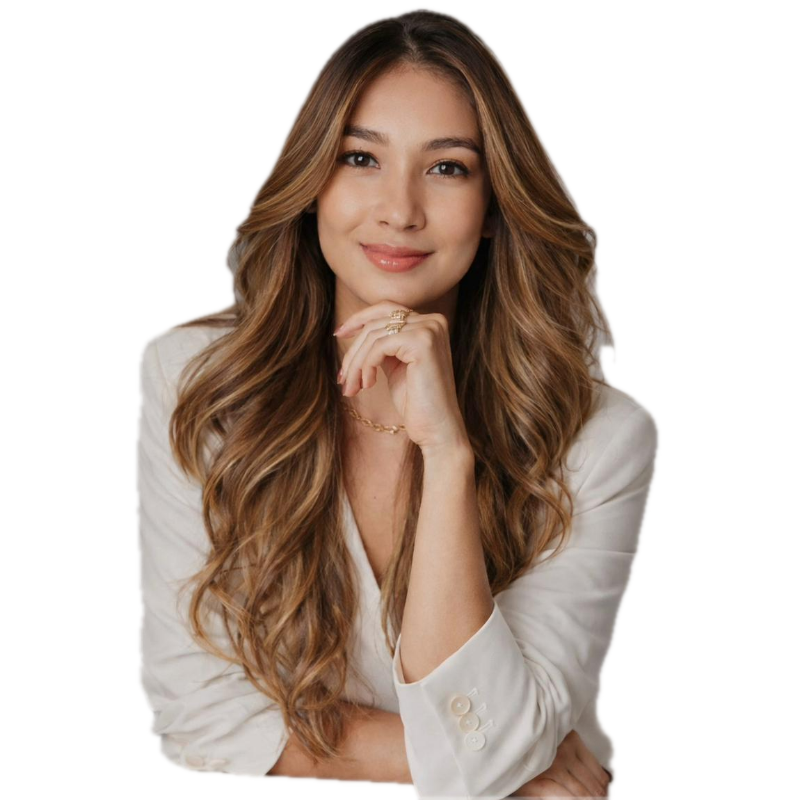
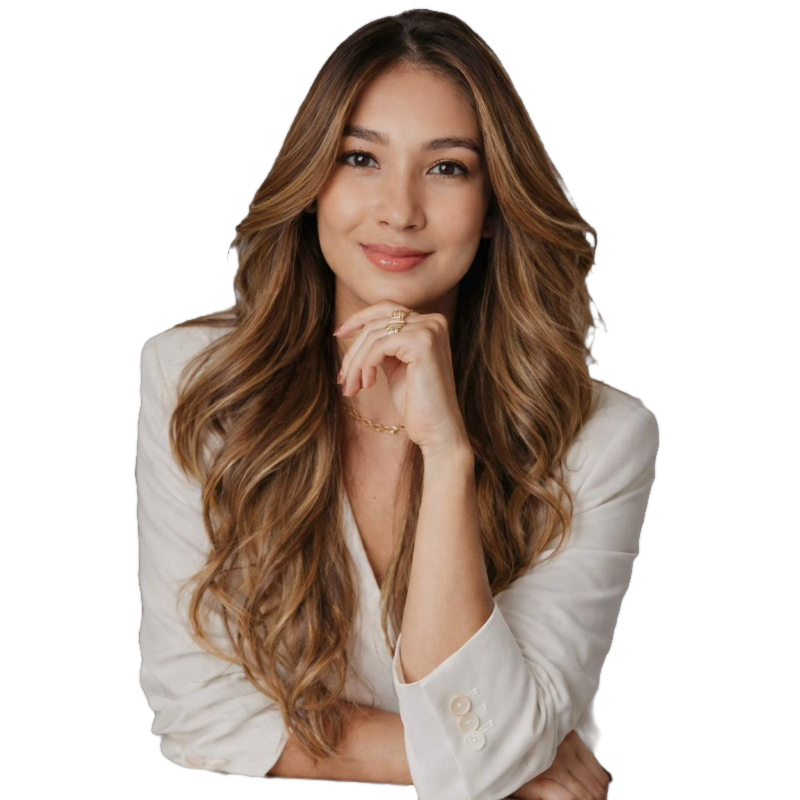
Recorte refeito com segmentacao de pessoa e retrato imersivo em arco na secao Sobre

diff --git a/styles.css b/styles.css
@@ -147,7 +147,7 @@ button { font: inherit; }
   position: absolute; z-index: 2; left: 50%; bottom: 0; width: min(88vh, 860px); aspect-ratio: 1;
   transform: translateX(-50%); will-change: transform; pointer-events: none;
 }
-.hero__figure img { width: 100%; height: 100%; object-fit: contain; object-position: 50% 100%; filter: drop-shadow(0 30px 60px rgba(0,0,0,.35)); }
+.hero__figure img { width: 100%; height: 100%; object-fit: contain; object-position: 50% 100%; filter: drop-shadow(0 30px 60px rgba(0,0,0,.35)); -webkit-mask-image: linear-gradient(0deg, transparent 0, #000 14%); mask-image: linear-gradient(0deg, transparent 0, #000 14%); }
 .hero__stage::after { content: ""; position: absolute; inset: auto 0 0; height: 34%; z-index: 3; pointer-events: none; background: linear-gradient(0deg, rgba(43,36,38,.92), rgba(43,36,38,0)); }
 .hero__tag { position: absolute; z-index: 4; left: var(--pad); bottom: 9vh; max-width: min(36vw, 520px); display: block; }
 .hero__tag .eyebrow { margin-bottom: 18px; }
@@ -287,12 +287,34 @@ button { font: inherit; }
 /* ============ sobre ============ */
 .about { padding: clamp(110px, 12vw, 170px) 0 0; background: var(--paper); overflow: hidden; }
 .about__grid { display: grid; grid-template-columns: 5fr 6fr; gap: clamp(40px, 7vw, 110px); align-items: center; }
-.about__photo { position: relative; margin: 0; max-width: 460px; }
-.about__img { overflow: hidden; border-radius: 2px; clip-path: inset(100% 0 0 0); transition: clip-path 1.6s var(--ease); }
-.about__photo.is-in .about__img { clip-path: inset(0 0 0 0); }
-.about__img img { width: 100%; transform: scale(1.15); }
-.about__photo::after { content: ""; position: absolute; inset: 18px -18px 52px 18px; border: 1px solid var(--gold); z-index: -1; }
-.about__photo figcaption { margin-top: 26px; font: italic 400 17px/1.3 var(--serif); color: var(--muted); }
+.about__photo { position: relative; margin: 0; max-width: 480px; width: 100%; justify-self: center; }
+.portrait { perspective: 1100px; }
+.portrait__tilt { position: relative; aspect-ratio: 1 / 1.12; transform-style: preserve-3d; will-change: transform; }
+.portrait__arch {
+  position: absolute; inset: 22% 6% 0; border-radius: 999px 999px 6px 6px; overflow: hidden;
+  background: radial-gradient(120% 90% at 50% 20%, #a7808a, var(--mauve) 45%, #4a3238);
+  box-shadow: 0 50px 90px -40px rgba(43,36,38,.7); transform-origin: 50% 100%;
+  transform: scaleY(0); transition: transform 1.4s var(--ease);
+}
+.portrait__arch i { position: absolute; left: 50%; top: 30%; border: 1px solid rgba(247,242,236,.22); border-radius: 50%; transform: translate(-50%, -50%); animation: breathe 7s ease-in-out infinite; }
+.portrait__arch i:first-child { width: 70%; aspect-ratio: 1; }
+.portrait__arch i:last-child { width: 115%; aspect-ratio: 1; animation-delay: -3.5s; }
+.portrait__fig {
+  position: absolute; left: 50%; bottom: 0; width: 104%; max-width: none; height: auto;
+  transform: translate(-50%, 18%) translateZ(60px); opacity: 0;
+  transition: transform 1.6s var(--ease) .35s, opacity 1.2s var(--ease) .35s;
+  filter: drop-shadow(0 30px 40px rgba(43,36,38,.35));
+  -webkit-mask-image: linear-gradient(0deg, transparent 0, #000 4%); mask-image: linear-gradient(0deg, transparent 0, #000 4%);
+}
+.about__photo.is-in .portrait__arch { transform: scaleY(1); }
+.about__photo.is-in .portrait__fig { transform: translate(-50%, 0) translateZ(60px); opacity: 1; }
+.portrait__badge { position: absolute; right: -4%; top: 30%; width: 120px; height: 120px; transform: translateZ(90px); animation: spin 22s linear infinite; }
+.portrait__badge text { font: 600 9.2px var(--sans); letter-spacing: .2em; text-transform: uppercase; fill: var(--ink); }
+.portrait__badge circle { fill: var(--paper); }
+.portrait__badge-e { font: italic 500 30px var(--serif) !important; letter-spacing: 0 !important; fill: var(--mauve) !important; }
+.portrait__badge::before { content: none; }
+.portrait__badge { background: var(--paper); border-radius: 50%; box-shadow: 0 16px 40px -16px rgba(43,36,38,.5); }
+.about__photo figcaption { margin-top: 26px; text-align: center; font: italic 400 18px/1.3 var(--serif); color: var(--muted); }
 .about__name { margin: 0; font: 500 clamp(56px, 8vw, 120px)/.9 var(--serif); letter-spacing: -.03em; }
 .about__name em { color: var(--mauve); }
 .about__lead { margin: 30px 0 18px; font: 500 clamp(22px, 2.2vw, 28px)/1.3 var(--serif); }
@@ -426,7 +448,8 @@ button { font: inherit; }
   .hero, .manifesto { height: auto; margin: 0; }
   .hero__stage, .manifesto__stage { position: relative; }
   .hero__hint { opacity: 1; }
-  .about__img { clip-path: none; }
+  .portrait__arch { transform: none; }
+  .portrait__fig { opacity: 1; transform: translate(-50%, 0); }
   .manifesto__text .w { color: var(--ink); }
   .quote [data-scrub] .w { color: var(--ivory); }
   .manifesto__orb { opacity: 1; transform: translateY(-50%); }

diff --git a/index.html b/index.html
@@ -280,9 +280,17 @@
   <!-- ============ SOBRE ============ -->
   <section class="about" id="sobre">
     <div class="wrap about__grid">
-      <figure class="about__photo" data-clip>
-        <div class="about__img"><img src="img/ig-DcI_Rf-Fk8V.jpg" width="640" height="800" loading="lazy" alt="Eduarda Cristina em seu consultório, em post sobre como monta o plano de tratamento" data-par-y></div>
-        <figcaption>Como eu monto o seu plano de tratamento</figcaption>
+      <figure class="about__photo portrait" data-clip data-portrait>
+        <div class="portrait__tilt" data-tilt>
+          <div class="portrait__arch" data-arch><i></i><i></i></div>
+          <img class="portrait__fig" src="img/eduarda-cut.png" width="800" height="800" loading="lazy" alt="Eduarda Cristina, fisioterapeuta, de blazer branco, sorrindo" data-fig>
+          <svg class="portrait__badge" viewBox="0 0 120 120" aria-hidden="true">
+            <defs><path id="ring" d="M60 60 m-46 0 a46 46 0 1 1 92 0 a46 46 0 1 1 -92 0"/></defs>
+            <text><textPath href="#ring">Fisioterapia domiciliar · Belém-PA · CREFITO 12 · </textPath></text>
+            <text x="60" y="70" text-anchor="middle" class="portrait__badge-e">E</text>
+          </svg>
+        </div>
+        <figcaption>Entender a pessoa antes de prescrever o movimento.</figcaption>
       </figure>
       <div class="about__copy">
         <p class="eyebrow">06 — Quem cuida</p>

diff --git a/main.js b/main.js
@@ -357,8 +357,21 @@
   });
 
   /* ---------- SOBRE: parallax da foto ---------- */
-  gsap.fromTo('[data-par-y]', { yPercent: -7 }, { yPercent: 7, ease: 'none',
-    scrollTrigger: { trigger: '.about__photo', start: 'top bottom', end: 'bottom top', scrub: true } });
+  // camadas em velocidades diferentes: arco mais lento, figura e selo mais rápidos
+  gsap.fromTo('[data-arch] i', { yPercent: -40 }, { yPercent: 30, ease: 'none',
+    scrollTrigger: { trigger: '[data-portrait]', start: 'top bottom', end: 'bottom top', scrub: true } });
+  gsap.fromTo('[data-tilt]', { y: 60 }, { y: -60, ease: 'none',
+    scrollTrigger: { trigger: '[data-portrait]', start: 'top bottom', end: 'bottom top', scrub: true } });
+  if (fine) {
+    const tilt = $('[data-tilt]'), por = $('[data-portrait]');
+    const qrx = gsap.quickTo(tilt, 'rotationX', { duration: .9, ease: 'power3' });
+    const qry = gsap.quickTo(tilt, 'rotationY', { duration: .9, ease: 'power3' });
+    por.addEventListener('pointermove', e => {
+      const r = por.getBoundingClientRect();
+      qry(((e.clientX - r.left) / r.width - .5) * 16); qrx(((e.clientY - r.top) / r.height - .5) * -12);
+    });
+    por.addEventListener('pointerleave', () => { qrx(0); qry(0); });
+  }
 
   /* ---------- CITAÇÃO ---------- */
   const qWords = $$('.w', $('.quote [data-scrub]'));
